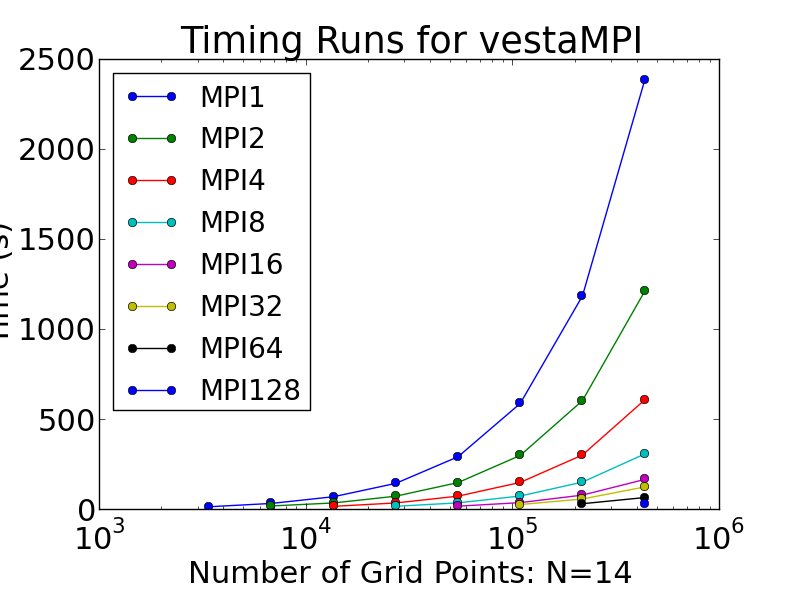
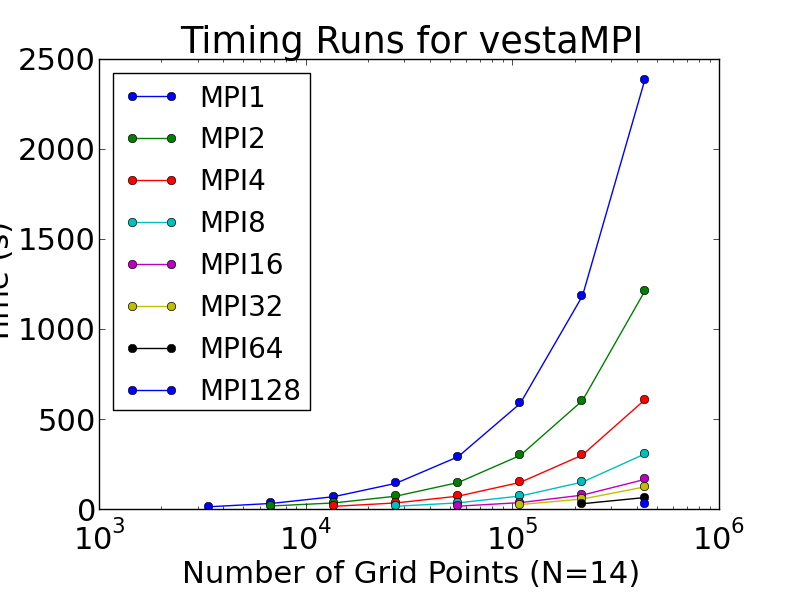
clean
git-svn-id: https://svn.mcs.anl.gov/repos/NEKCEM/trunk@1935 df63514b-fc50-0410-8a93-94e60f5a2dad

Former-commit-id: ef46a61635b6d9332af8b5281b3769236888e4c4

Changed region(s): [[0.2188, 0.93, 0.8125, 0.99]]

diff --git a/examples/mpi_scale/data/timingPlotN14.py b/examples/mpi_scale/data/timingPlotN14.py
@@ -36,7 +36,7 @@ for fn in os.listdir('.'):
             plt.legend(loc='upper left',prop={'size':20})
             plt.title('Timing Runs for '+comp+proc)
             plt.ylabel('Time (s)')
-            plt.xlabel('Number of Grid Points: N=14')
+            plt.xlabel('Number of Grid Points (N=14)')
             save='plots/'+fn+'lin'
 
             if saveIn == 0:
@@ -55,7 +55,7 @@ for fn in os.listdir('.'):
             plt.ylabel('Time (s)')
 
             plt.xscale('log')            
-            plt.xlabel('Number of Grid Points: N=14')
+            plt.xlabel('Number of Grid Points (N=14)')
 
             save='plots/'+fn+'log'
             if saveIn == 0:
